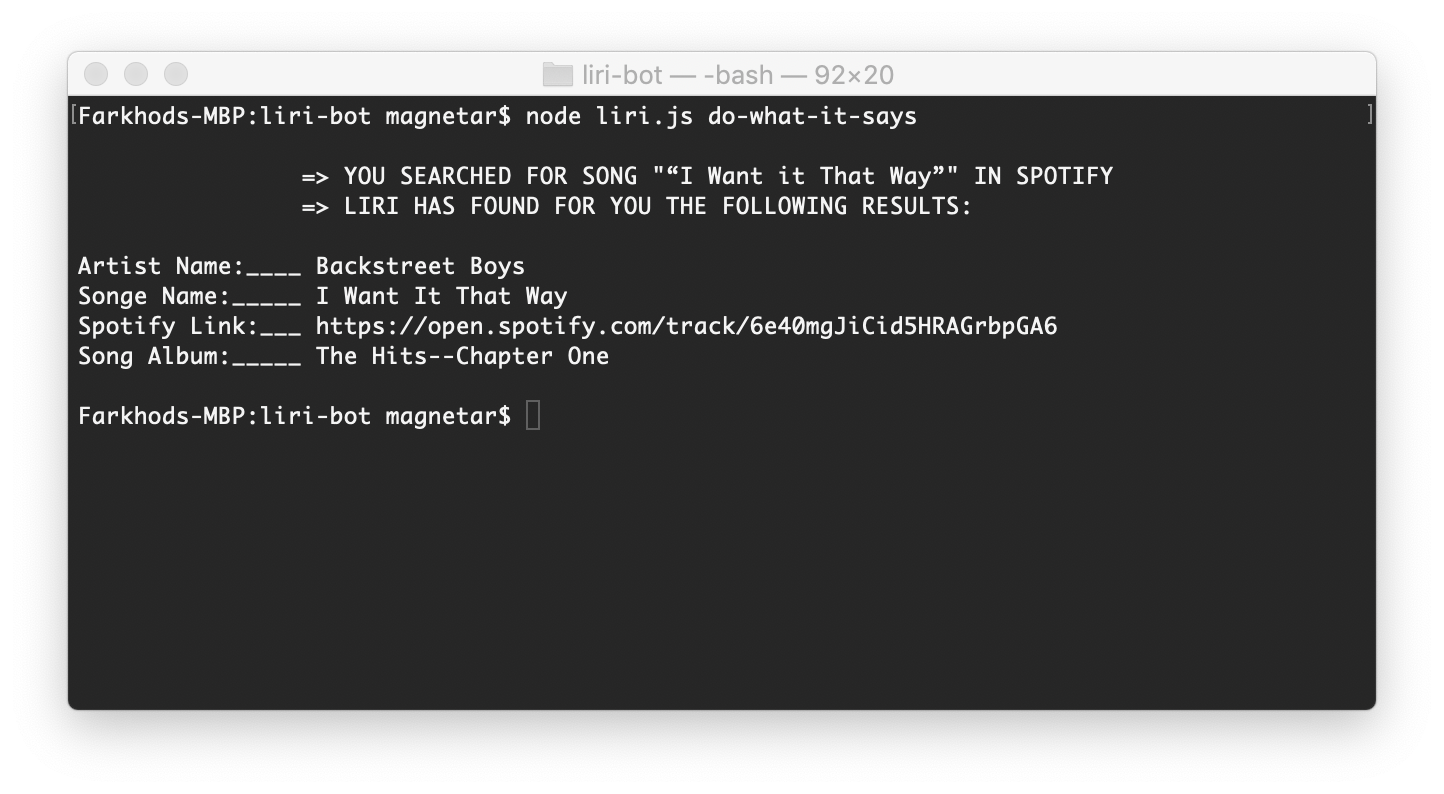
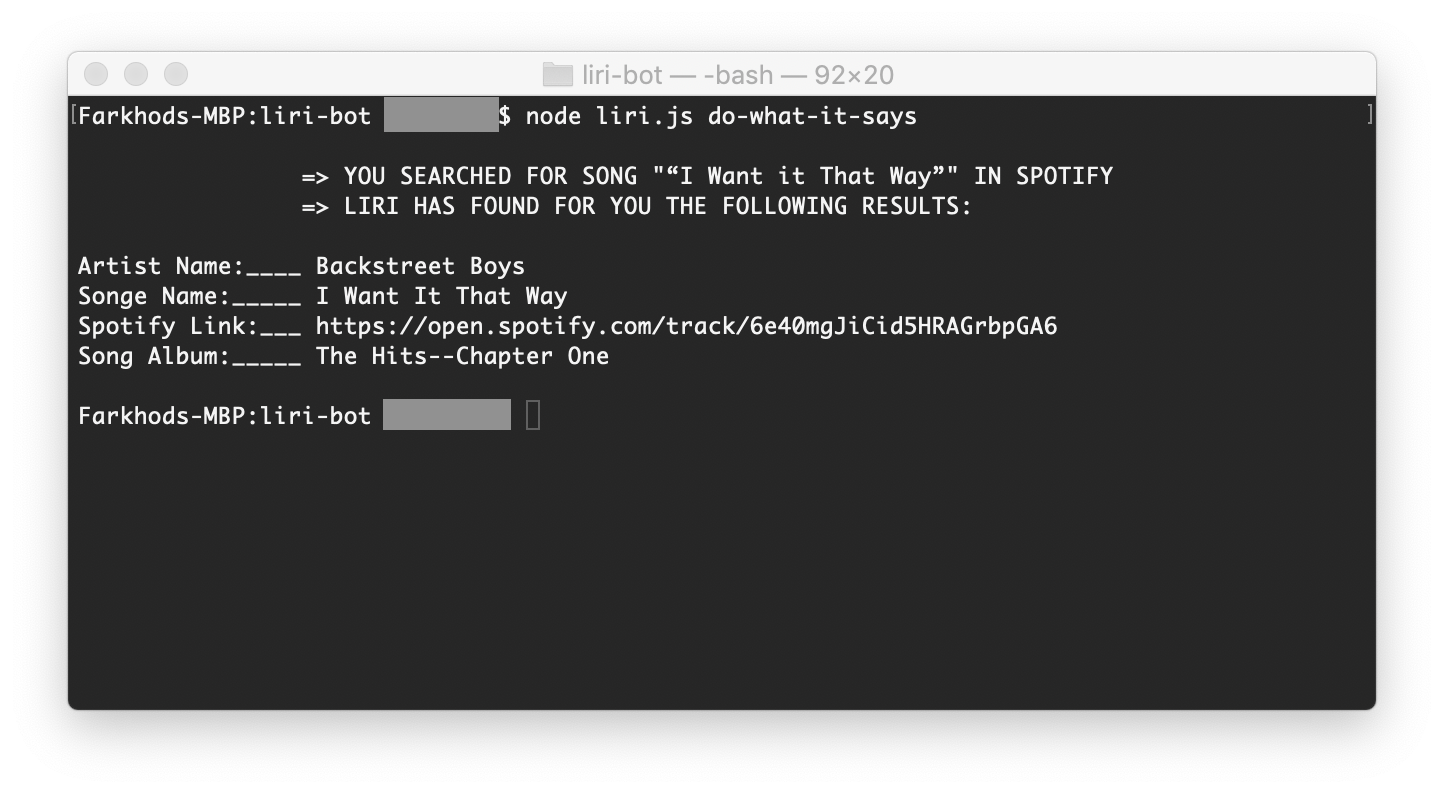
Readme updated: a screenshot of do-what-it-says added

Changed region(s): [[0.2493, 0.4836, 0.374, 0.5441], [0.2493, 0.1209, 0.3428, 0.1814]]

diff --git a/README.md b/README.md
@@ -36,5 +36,5 @@
     * movie-this Avengers
     ![movie-this](/results-example/movie-this-avengers.png)
 
-    * do-this Lady Gaga 
+    * do-what-it-says 
     ![spotify-this](/results-example/do-this.png)
